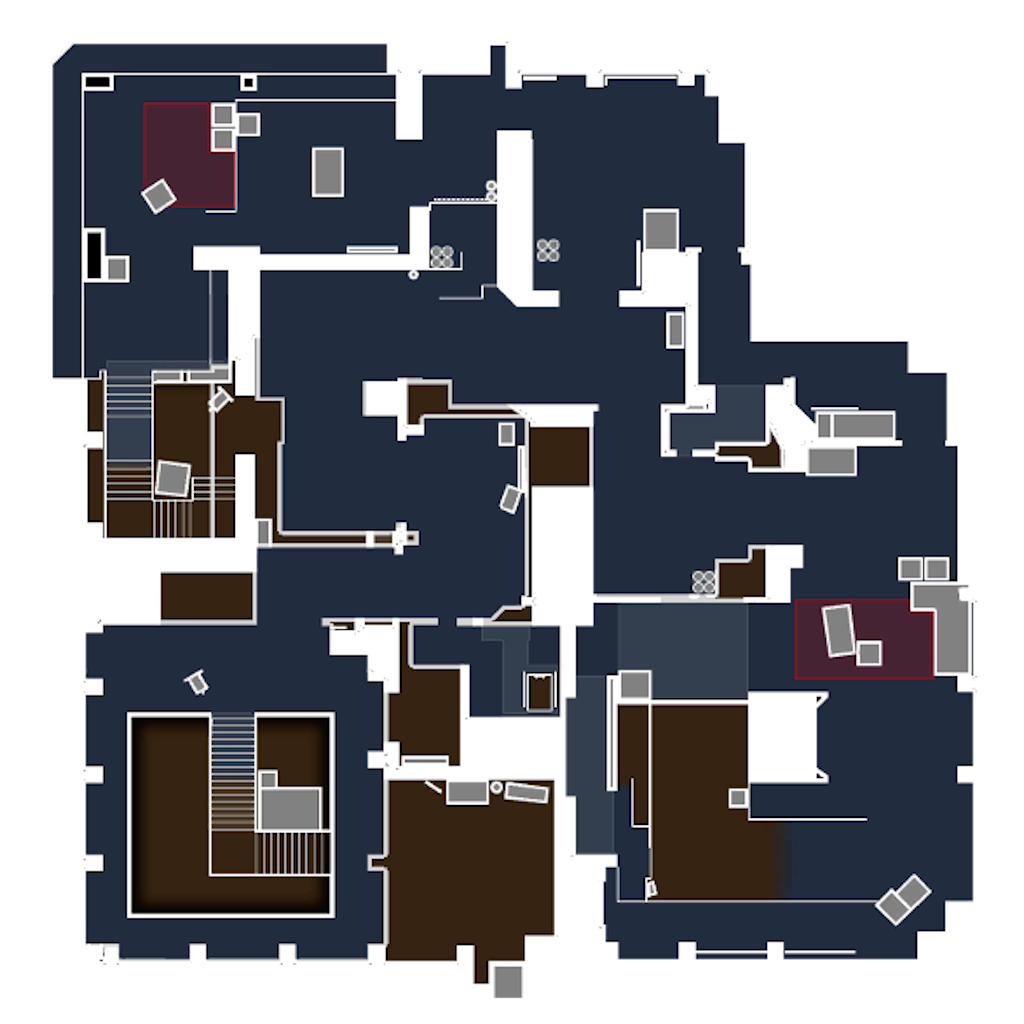
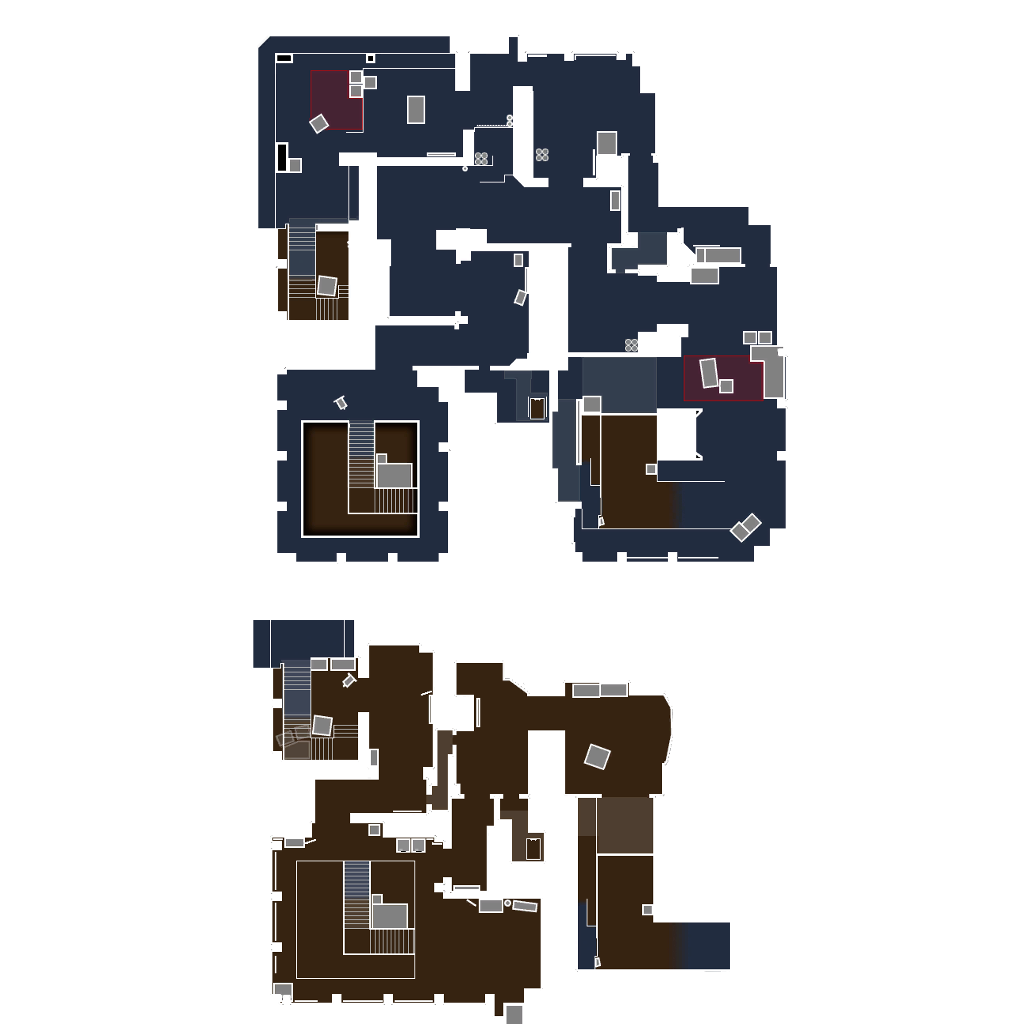
added double layer on vertigo

diff --git a/src/HUD/Radar/LexoRadar/maps/de_vertigo/index.ts b/src/HUD/Radar/LexoRadar/maps/de_vertigo/index.ts
@@ -1,5 +1,41 @@
 import radar from './radar.png'
 
+const high = {
+    "origin": {
+        "x": 784.4793452283254,
+        "y": 255.42597837029027
+    },
+    "pxPerUX": 0.19856123172015677,
+    "pxPerUY": -0.19820052722907044
+};
+
+const low = {
+    "origin": {
+        "x": 780.5145858437052,
+        "y": 695.4259783702903
+    },
+    "pxPerUX": 0.1989615567841087,
+    "pxPerUY": -0.19820052722907044
+};
+
+export default {
+    configs: [
+        {
+            id: 'high',
+            config: high,
+            isVisible: (height: number) => height >= 11700,
+        },
+        {
+            id: 'low',
+            config: low,
+            isVisible: (height: number) => height < 11700,
+        },
+    ],
+    file: radar
+}
+/*
+import radar from './radar.png'
+
 export default {
     "config": {
         "origin": {
@@ -10,4 +46,4 @@ export default {
         "pxPerUY": -0.3450882697407333
     },
     "file":radar
-}
+}*/

diff --git a/src/HUD/Radar/LexoRadar/LexoRadarContainer.tsx b/src/HUD/Radar/LexoRadar/LexoRadarContainer.tsx
@@ -152,7 +152,7 @@ class App extends React.Component<IProps> {
                 if ("config" in map) {
                     return ({
                         position: this.parsePosition(extGrenade.flames[id].split(", ").map(pos => Number(pos)), 12, map.config),
-                        id,
+                        id: `${id}_${extGrenade.id}`,
                         visible: true
                     });
                 }
